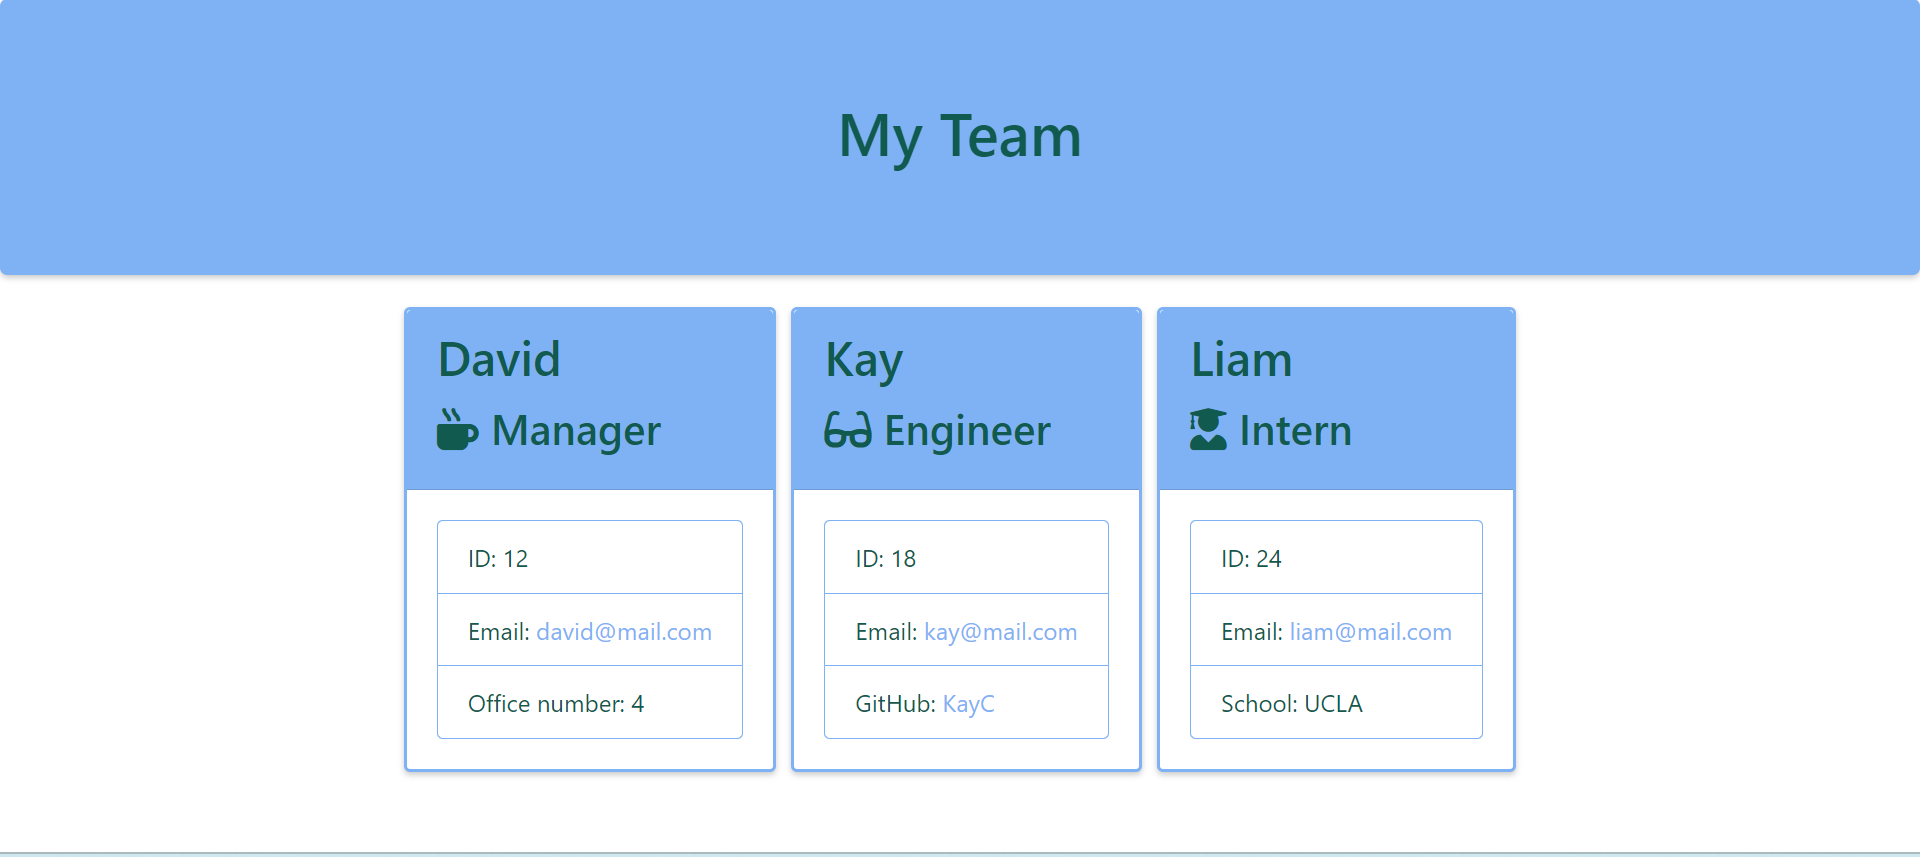
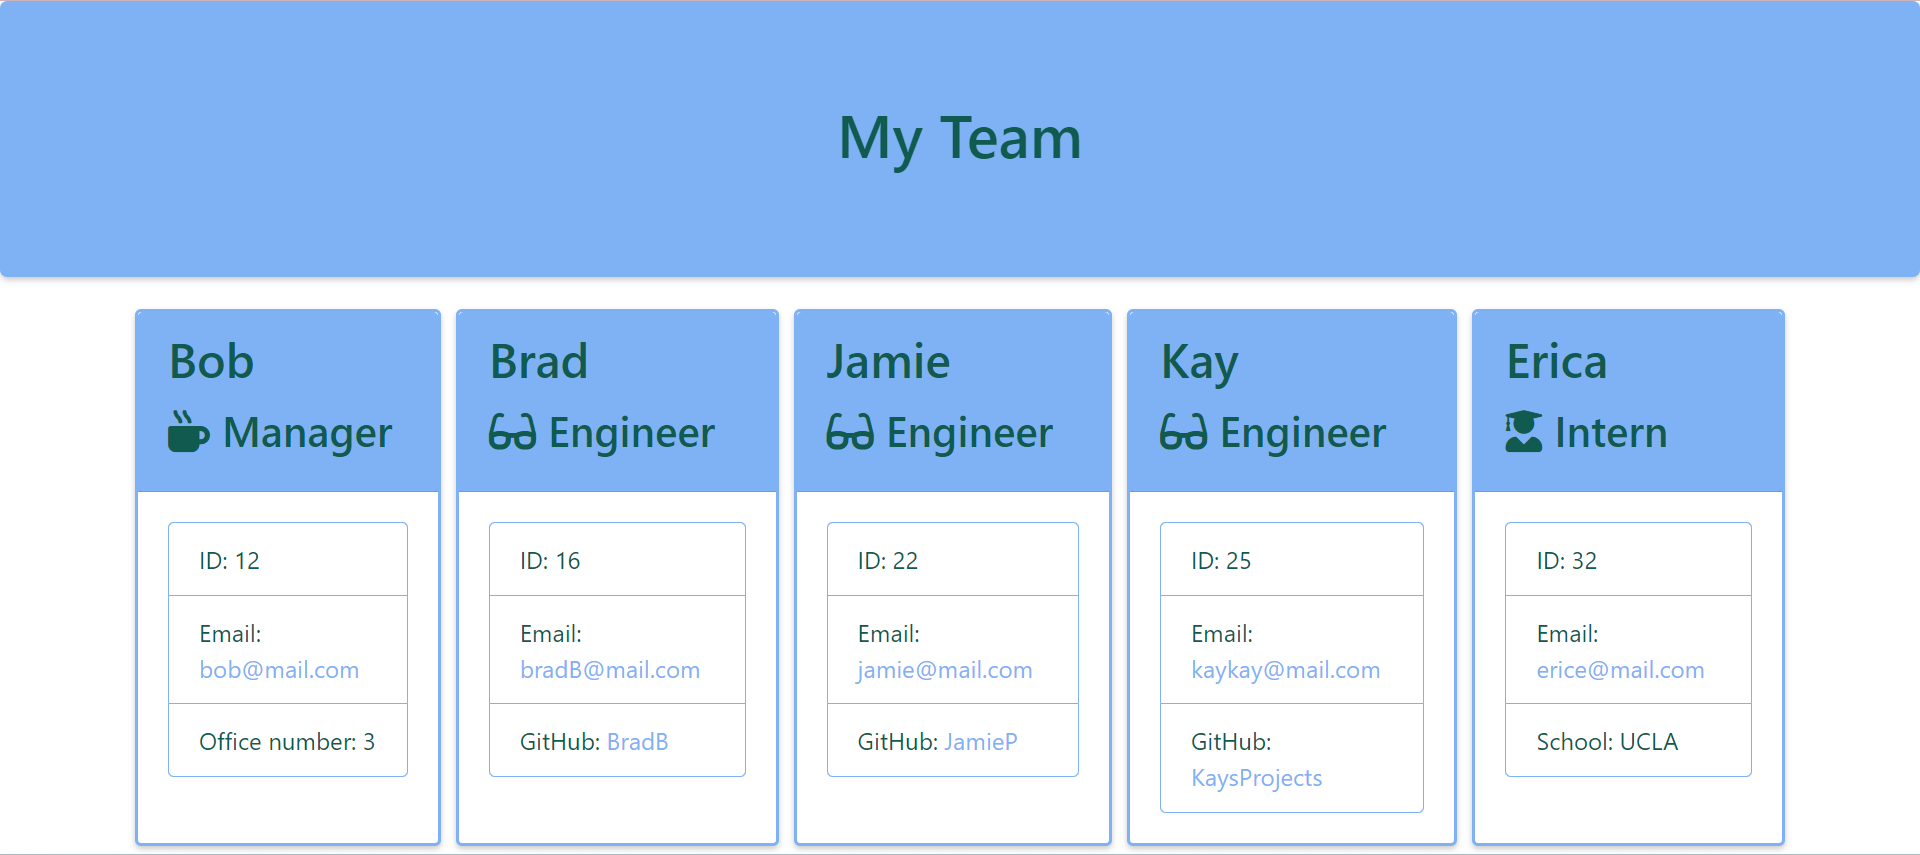
styling linked and screenshots changed

diff --git a/output/team.html b/output/team.html
@@ -26,14 +26,44 @@
 
                 <div class="card employee-card">
                     <div class="card-header">
-                        <h2 class="card-title">David</h2>
+                        <h2 class="card-title">Bob</h2>
                         <h3 class="card-title"><i class="fas fa-mug-hot mr-2"></i>Manager</h3>
                     </div>
                     <div class="card-body">
                         <ul class="list-group">
                             <li class="list-group-item">ID: 12</li>
-                            <li class="list-group-item">Email: <a href="mailto:david@mail.com">david@mail.com</a></li>
-                            <li class="list-group-item">Office number: 4</li>
+                            <li class="list-group-item">Email: <a href="mailto:bob@mail.com">bob@mail.com</a></li>
+                            <li class="list-group-item">Office number: 3</li>
+                        </ul>
+                    </div>
+                </div>
+
+                <div class="card employee-card">
+                    <div class="card-header">
+                        <h2 class="card-title">Brad</h2>
+                        <h3 class="card-title"><i class="fas fa-glasses mr-2"></i>Engineer</h3>
+                    </div>
+                    <div class="card-body">
+                        <ul class="list-group">
+                            <li class="list-group-item">ID: 16</li>
+                            <li class="list-group-item">Email: <a href="mailto:bradB@mail.com">bradB@mail.com</a></li>
+                            <li class="list-group-item">GitHub: <a href="https://github.com/BradB" target="_blank"
+                                    rel="noopener noreferrer">BradB</a></li>
+                        </ul>
+                    </div>
+                </div>
+
+                <div class="card employee-card">
+                    <div class="card-header">
+                        <h2 class="card-title">Jamie</h2>
+                        <h3 class="card-title"><i class="fas fa-glasses mr-2"></i>Engineer</h3>
+                    </div>
+                    <div class="card-body">
+                        <ul class="list-group">
+                            <li class="list-group-item">ID: 22</li>
+                            <li class="list-group-item">Email: <a href="mailto:jamie@mail.com">jamie@mail.com</a></li>
+                            <li class="list-group-item">GitHub: <a href="https://github.com/JamieP" target="_blank"
+                                    rel="noopener noreferrer">JamieP</a></li>
                         </ul>
                     </div>
                 </div>
@@ -45,23 +75,23 @@
                     </div>
                     <div class="card-body">
                         <ul class="list-group">
-                            <li class="list-group-item">ID: 18</li>
-                            <li class="list-group-item">Email: <a href="mailto:kay@mail.com">kay@mail.com</a></li>
-                            <li class="list-group-item">GitHub: <a href="https://github.com/KayC" target="_blank"
-                                    rel="noopener noreferrer">KayC</a></li>
+                            <li class="list-group-item">ID: 25</li>
+                            <li class="list-group-item">Email: <a href="mailto:kaykay@mail.com">kaykay@mail.com</a></li>
+                            <li class="list-group-item">GitHub: <a href="https://github.com/KaysProjects"
+                                    target="_blank" rel="noopener noreferrer">KaysProjects</a></li>
                         </ul>
                     </div>
                 </div>
 
                 <div class="card employee-card">
                     <div class="card-header">
-                        <h2 class="card-title">Liam</h2>
+                        <h2 class="card-title">Erica</h2>
                         <h3 class="card-title"><i class="fas fa-user-graduate mr-2"></i>Intern</h3>
                     </div>
                     <div class="card-body">
                         <ul class="list-group">
-                            <li class="list-group-item">ID: 24</li>
-                            <li class="list-group-item">Email: <a href="mailto:liam@mail.com">liam@mail.com</a></li>
+                            <li class="list-group-item">ID: 32</li>
+                            <li class="list-group-item">Email: <a href="mailto:erice@mail.com">erice@mail.com</a></li>
                             <li class="list-group-item">School: UCLA</li>
                         </ul>
                     </div>

diff --git a/src/page-template.js b/src/page-template.js
@@ -93,7 +93,7 @@ module.exports = team => {
     <title>My Team</title>
     <link rel="stylesheet" href="https://stackpath.bootstrapcdn.com/bootstrap/4.3.1/css/bootstrap.min.css"
         integrity="sha384-ggOyR0iXCbMQv3Xipma34MD+dH/1fQ784/j6cY/iJTQUOhcWr7x9JvoRxT2MZw1T" crossorigin="anonymous">
-    <link rel="stylesheet" href="style.css">
+    <link rel="stylesheet" href="../assets/css/style.css">
     <script src="https://kit.fontawesome.com/c502137733.js"></script>
 </head>
 
